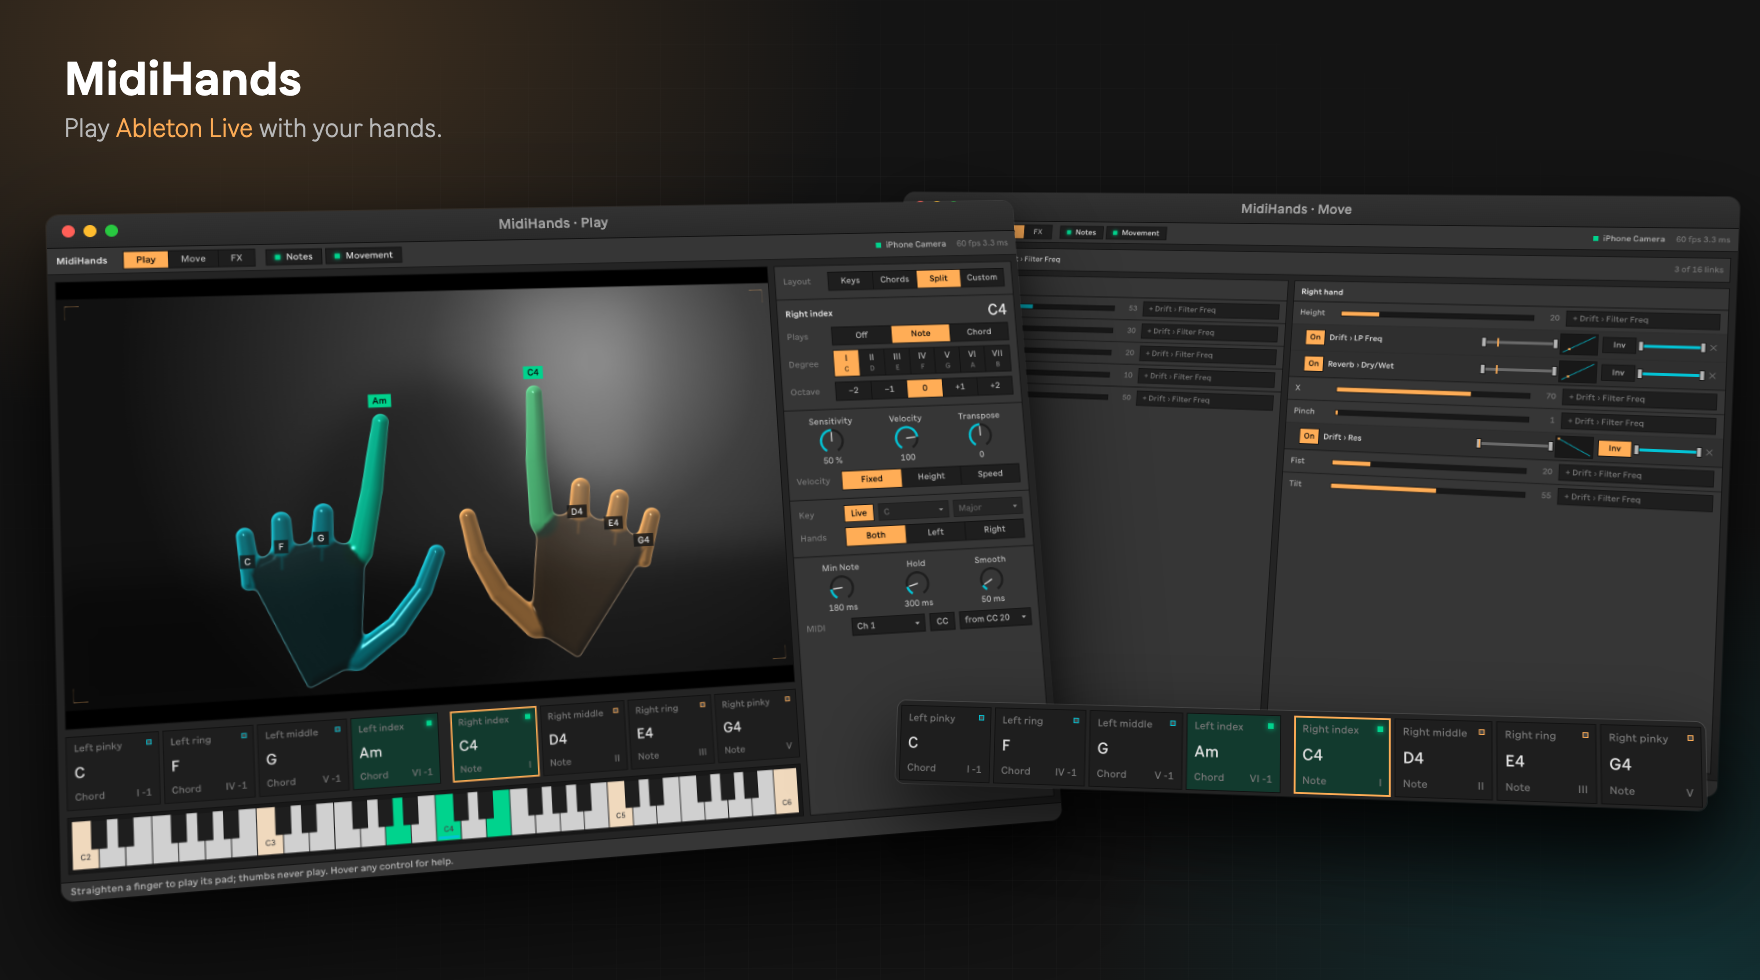
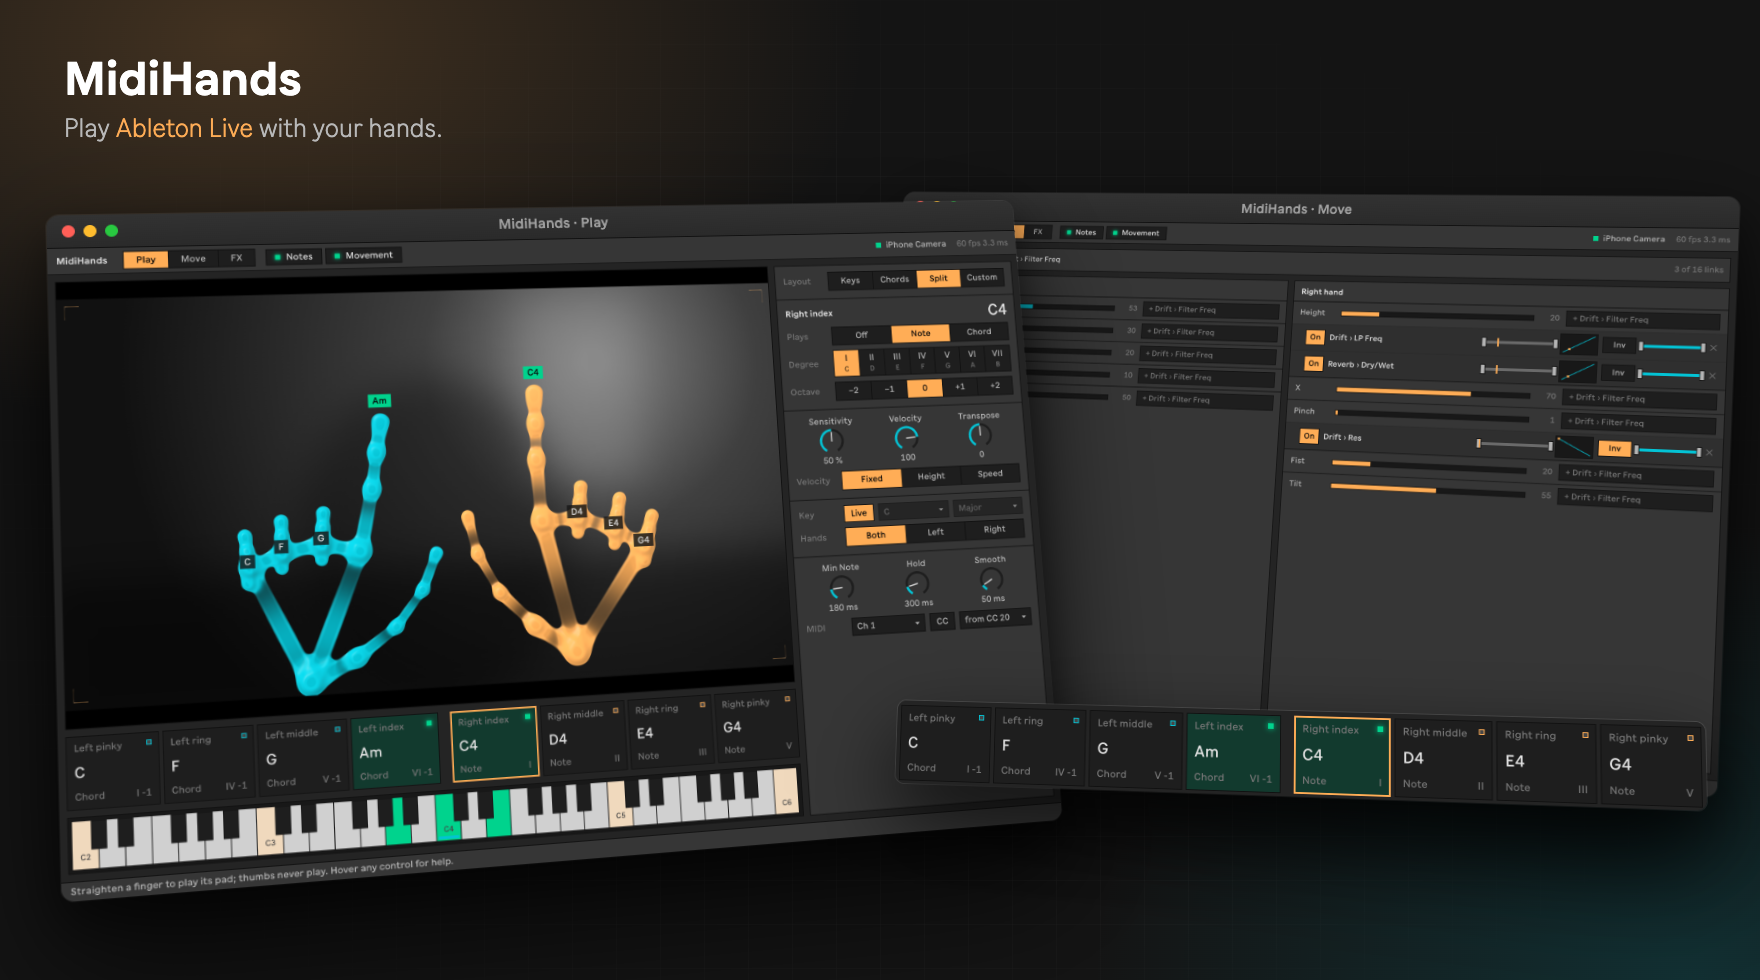
fix: back to the original jelly look, with slimmer fingers
The distance-field rewrite lost the old app's character (it read as a
latex glove on camera). The original field shader is back unchanged;
only the finger sizes differ: finger joints and tips at about 60-65%
of the old radius, finger bones a little fuller relative to their
joints so a slim finger stays smooth rather than beaded. Wrist, thumb
base and palm keep the old sizes; knuckles shrink slightly.

Claude-Session: https://claude.ai/code/session_01Lv8F25mHrKPNLjGZjr72Lo

Changed region(s): [[0.125, 0.398, 0.375, 0.7041]]

diff --git a/package/javascript/mh-gl.js b/package/javascript/mh-gl.js
@@ -90,9 +90,7 @@ uniform float u_mix;
 out vec4 o;
 void main() { o = vec4(mix(texture(u_base, v_uv).rgb, texture(u_fx, v_uv).rgb, u_mix), 1.0); }`;
 
-  // The hand body ("Jelly"): slim tapered fingers smoothly joined to a glassy palm,
-  // as a signed distance field. Sized from the hand itself (knuckle spacing), so it
-  // stays slimmer than the real fingers at any distance from the camera.
+  // The old app's hand body: a lit, slightly wobbling field over joints and bones.
   const FIELD_VERT = `#version 300 es
 precision highp float;
 in vec2 a_pos;
@@ -100,104 +98,91 @@ uniform vec4 u_rect;
 uniform vec2 u_res;
 uniform float u_yFlip;
 out vec2 v_px;
+out vec2 v_local;
 ${TO_CLIP}
 void main() {
   v_px = u_rect.xy + a_pos * u_rect.zw;
+  v_local = a_pos * 2.0 - 1.0;
   gl_Position = toClip(v_px, u_res);
 }`;
 
   const FIELD_FRAG = `#version 300 es
 precision highp float;
 #define JOINTS 21
+#define SEGS 21
 in vec2 v_px;
+in vec2 v_local;
 uniform vec2 u_joint[JOINTS];
 uniform float u_jointR[JOINTS];
-uniform float u_jointOn[JOINTS];
-uniform float u_palmR, u_k, u_R;
-uniform vec3 u_color, u_highlight, u_play;
-uniform float u_alpha, u_time, u_phase;
+uniform vec4 u_seg[SEGS];
+uniform float u_segR[SEGS];
+uniform vec3 u_color, u_highlight;
+uniform float u_alpha, u_time, u_rate, u_phase;
 out vec4 o;
-// Fingers, three bones each: the thumb from its base joint, the others from their knuckles.
-const int BA[15] = int[15](1, 2, 3, 5, 6, 7, 9, 10, 11, 13, 14, 15, 17, 18, 19);
-const int BB[15] = int[15](2, 3, 4, 6, 7, 8, 10, 11, 12, 14, 15, 16, 18, 19, 20);
-const int PALM[6] = int[6](0, 1, 5, 9, 13, 17);
-float cro(vec2 a, vec2 b) { return a.x * b.y - a.y * b.x; }
-// A capsule whose radius changes from ra to rb (Inigo Quilez).
-float taper(vec2 p, vec2 pa, vec2 pb, float ra, float rb) {
-  p -= pa; pb -= pa;
-  float h = dot(pb, pb);
-  if (h < 1.0) return length(p) - max(ra, rb);
-  vec2 q = vec2(dot(p, vec2(pb.y, -pb.x)), dot(p, pb)) / h;
-  q.x = abs(q.x);
-  float b = ra - rb;
-  vec2 c = vec2(sqrt(max(h - b * b, 1e-3)), b);
-  float k = cro(c, q), m = dot(c, q), n = dot(q, q);
-  if (k < 0.0) return sqrt(h * n) - ra;
-  if (k > c.x) return sqrt(h * (n + 1.0 - 2.0 * q.y)) - rb;
-  return m - ra;
+float capsule(vec2 p, vec2 a, vec2 b, float r) {
+  vec2 pa = p - a, ba = b - a;
+  float h = clamp(dot(pa, ba) / max(dot(ba, ba), 1e-4), 0.0, 1.0);
+  return length(pa - ba * h) - r;
 }
-float palm(vec2 p) {
-  vec2 v0 = u_joint[PALM[0]];
-  float d = dot(p - v0, p - v0), s = 1.0;
-  int j = 5;
-  for (int i = 0; i < 6; i++) {
-    vec2 vi = u_joint[PALM[i]], vj = u_joint[PALM[j]];
-    vec2 e = vj - vi, w = p - vi;
-    vec2 b = w - e * clamp(dot(w, e) / max(dot(e, e), 1e-3), 0.0, 1.0);
-    d = min(d, dot(b, b));
-    bvec3 c = bvec3(p.y >= vi.y, p.y < vj.y, e.x * w.y > e.y * w.x);
-    if (all(c) || all(not(c))) s = -s;
-    j = i;
-  }
-  return s * sqrt(d);
+float wob(vec2 d, int i) {
+  float a = atan(d.y, d.x);
+  return 1.0 + 0.06 * sin(a * 2.0 + u_time * (1.05 + u_rate * 0.95) + u_phase * 6.28318)
+             + 0.035 * sin(a * 3.0 - u_time * (0.62 + u_rate * 0.82) + float(i) * 0.37);
 }
-float smin(float a, float b, float k) { float h = max(k - abs(a - b), 0.0) / k; return min(a, b) - h * h * k * 0.25; }
-// x: distance (px, negative inside), y: how much a playing finger tints this point,
-// z: how much this point is palm rather than finger (the palm is only a faint membrane).
-// The segments of a finger join plainly (no bulging joints); only fingers and palm blend.
-vec3 scene(vec2 p) {
-  float dp = palm(p) - u_palmR * 0.25, d = dp, fingers = 1e9, on = 0.0;
-  for (int f = 0; f < 5; f++) {
-    float df = 1e9;
-    for (int k = 0; k < 3; k++) {
-      int i = f * 3 + k;
-      df = min(df, taper(p, u_joint[BA[i]], u_joint[BB[i]], u_jointR[BA[i]], u_jointR[BB[i]]));
-    }
-    on = max(on, u_jointOn[BB[f * 3 + 2]] * (1.0 - smoothstep(-2.0, u_k, df)));
-    fingers = min(fingers, df);
-    d = smin(d, df, u_k);
+float pulseAt(vec2 p, vec4 s) {
+  float t = clamp(length(p - s.xy) / max(length(s.zw - s.xy), 1e-4), 0.0, 1.0);
+  return 0.5 + 0.5 * sin((t - u_time * 0.18 * max(u_rate, 1e-3) - u_phase) * 6.28318);
+}
+float fieldAt(vec2 p) {
+  float total = 0.0;
+  for (int i = 0; i < JOINTS; i++) {
+    vec2 d = p - u_joint[i];
+    float dist = length(d) / max(u_jointR[i] * wob(d, i), 1e-3);
+    total += exp(-pow(dist, 2.35)) * 0.92;
   }
-  return vec3(d, on, smoothstep(-u_k * 0.5, u_k * 0.5, fingers - max(dp, -u_k)));
+  for (int i = 0; i < SEGS; i++) {
+    float dist = capsule(p, u_seg[i].xy, u_seg[i].zw, u_segR[i]) / max(u_segR[i], 1e-3);
+    total += exp(-pow(max(dist, 0.0), 2.4) * 1.05) * (1.08 + pulseAt(p, u_seg[i]) * 0.12);
+  }
+  return total;
 }
 void main() {
-  vec3 s = scene(v_px);
-  float body = clamp(0.5 - s.x, 0.0, 1.0);             // 1 px soft edge
-  if (body <= 0.0) discard;
-  float R = max(u_R, 2.0);                              // one thickness for the whole hand: no seams
-  float t = clamp(-s.x / R, 0.0, 1.0);                  // 0 at the rim, 1 deep inside
-  // A rounded profile: the normal tilts outwards towards the rim.
-  float e = max(1.0, R * 0.12);
-  vec2 g = vec2(scene(v_px + vec2(e, 0.0)).x - scene(v_px - vec2(e, 0.0)).x,
-                scene(v_px + vec2(0.0, e)).x - scene(v_px - vec2(0.0, e)).x) / (2.0 * e);
-  float u = 1.0 - t;
-  float slope = u / max(sqrt(1.0 - u * u), 0.12);
-  vec3 n = normalize(vec3(g * min(slope, 6.0), 1.0));
-  vec3 L = normalize(vec3(-0.45, -0.55, 0.7));
-  float diffuse = max(dot(n, L), 0.0);
-  float spec = pow(max(dot(reflect(-L, n), vec3(0.0, 0.0, 1.0)), 0.0), 36.0);
-  float fresnel = pow(1.0 - n.z, 2.0);
-  float sheen = 0.75 + 0.25 * sin(dot(v_px, vec2(0.018, 0.031)) - u_time * 1.3 + u_phase * 6.28318);
-  vec3 base = mix(u_color, u_play, s.y * 0.7);
-  vec3 c = base * (0.5 + 0.6 * diffuse) + u_highlight * (spec * 0.85 * sheen + fresnel * 0.3);
-  // Glass: fingers clear inside and solid at the rim, a playing finger fills up; the
-  // palm only a faint membrane with a thin bright edge, so the real palm shows.
-  float rim = 1.0 - smoothstep(0.0, 0.45, t);
-  float fingerA = mix(0.55, 1.0, max(rim, s.y * 0.7));
-  float edge = 1.0 - smoothstep(0.0, 1.5 + R * 0.12, -s.x);
-  float palmA = mix(0.12, 0.7, edge);
-  c = mix(c, mix(c, u_highlight, 0.35), s.z * edge);
-  float a = u_alpha * body * mix(fingerA, palmA, s.z);
-  a = clamp(a + spec * 0.3 * (1.0 - s.z * 0.7), 0.0, 1.0);
+  float field = 0.0, membraneField = 0.0, charge = 0.0, centerWeight = 0.0;
+  for (int i = 0; i < JOINTS; i++) {
+    vec2 d = v_px - u_joint[i];
+    float dist = length(d) / max(u_jointR[i] * wob(d, i), 1e-3);
+    float blob = exp(-pow(dist, 2.35));
+    field += blob * 0.92;
+    membraneField += exp(-pow(dist - 0.98, 2.0) * 8.5);
+    charge += blob * (0.35 + 0.65 * sin(u_time * (1.8 + u_rate * 1.2) + u_phase * 6.28318 + float(i) * 0.31));
+    centerWeight += blob;
+  }
+  for (int i = 0; i < SEGS; i++) {
+    float dist = capsule(v_px, u_seg[i].xy, u_seg[i].zw, u_segR[i]) / max(u_segR[i], 1e-3);
+    float bridge = exp(-pow(max(dist, 0.0), 2.4) * 1.05);
+    float pulse = pulseAt(v_px, u_seg[i]);
+    field += bridge * (1.08 + pulse * 0.12);
+    membraneField += exp(-pow(dist - 0.12, 2.0) * 6.8) * 0.82;
+    charge += bridge * pulse * 0.3;
+  }
+  float body = smoothstep(0.98, 1.24, field);
+  if (body < 0.001) discard;
+  float core = smoothstep(1.26, 1.82, field);
+  float membrane = smoothstep(0.18, 0.96, membraneField) * (1.0 - core * 0.44);
+  float flow = 0.5 + 0.5 * sin(length(v_local) * 9.0 - u_time * (1.5 + u_rate * 0.8) + u_phase * 6.28318 + centerWeight * 0.45);
+  float electric = clamp(charge / 18.0, 0.0, 1.0);
+  float e = 2.2;
+  float fx = fieldAt(v_px + vec2(e, 0.0)) - fieldAt(v_px - vec2(e, 0.0));
+  float fy = fieldAt(v_px + vec2(0.0, e)) - fieldAt(v_px - vec2(0.0, e));
+  vec3 n = normalize(vec3(-fx, -fy, 0.95));
+  vec3 l = normalize(vec3(-0.38, -0.46, 0.8));
+  float diffuse = max(dot(n, l), 0.0);
+  float rim = pow(1.0 - max(n.z, 0.0), 2.4);
+  float spec = pow(max(dot(reflect(-l, n), vec3(0.0, 0.0, 1.0)), 0.0), 18.0);
+  float gloss = spec * (0.18 + flow * 0.12 + electric * 0.08);
+  vec3 c = u_color * (0.82 + diffuse * 0.34 + core * 0.08);
+  c = mix(c, u_highlight, gloss + rim * 0.14 + membrane * 0.05);
+  float a = u_alpha * body * (1.0 + membrane * 0.12 + gloss * 0.08);
   o = vec4(c * a, a);
 }`;
 
@@ -422,36 +407,42 @@ void main() {
         const pts = hand.pts.map(map);
         const color = hex(s ? theme.right : theme.left), hi = hex(theme.highlight);
         const fv = (i) => { const f = i <= 4 ? 0 : Math.floor((i - 1) / 4); return f > 0 && hand.on[f] ? 1 : 0; };
-        const phase = s ? 0.58 : 0.12;  // the two hands shimmer out of step
+        // Size follows how big the hand is on screen (old app: palm 45..220 px -> 0.3..1.9).
+        const palm = [5, 9, 13, 17].reduce((a, i) => a + Math.hypot(pts[i][0] - pts[0][0], pts[i][1] - pts[0][1]), 0) / 4 / unit;
+        const n = clamp01((0.3 + (palm - 45) / 175 * 1.6 - 0.3) / 1.6);
+        const scale = (0.18 + n * 1.1) * 2.2 * unit;
+        const motion = s ? [1.08, 0.58] : [0.84, 0.12];
         if (look === "jelly") {
-          // Thickness from the hand itself: the spacing of the four knuckles.
-          const dist = (i, j) => Math.hypot(pts[i][0] - pts[j][0], pts[i][1] - pts[j][1]);
-          const sp = Math.max((dist(5, 9) + dist(9, 13) + dist(13, 17)) / 3, dist(0, 9) * 0.22, 3);
-          const joints = new Float32Array(42), radii = new Float32Array(21), on = new Float32Array(21);
-          // Wrist, thumb (CMC, MCP, IP, tip), then per finger: knuckle, middle joints, tip.
-          const thumb = [0.3, 0.34, 0.3, 0.26, 0.22], finger = [0.3, 0.26, 0.23, 0.2];
+          const joints = new Float32Array(42), radii = new Float32Array(21), segs = new Float32Array(84), segR = new Float32Array(21);
           let x0 = Infinity, y0 = Infinity, x1 = -Infinity, y1 = -Infinity;
           for (let i = 0; i < 21; i++) {
-            const f = i <= 4 ? 0 : Math.floor((i - 1) / 4);
-            let rad = (i <= 4 ? thumb[i] : finger[(i - 1) % 4]) * sp;
-            if (f === 4) rad *= 0.88;                                  // pinky
-            on[i] = fv(i);
-            if (on[i]) rad *= 1.1;
+            const v = fv(i);
+            // The old app's sizes, with fingers at about 60%: wrist, thumb base and palm keep
+            // the old look, knuckles shrink a little so the fingers blend into the palm.
+            const rad = (i === 0 ? 9.4 : i === 1 ? 5.9 : [5, 9, 13, 17].includes(i) ? 6.6
+              : TIPS.includes(i) ? 4.6 + v * 2.2 : 3.8 + v * 1.4) * scale;
             joints[i * 2] = pts[i][0]; joints[i * 2 + 1] = pts[i][1]; radii[i] = rad;
             x0 = Math.min(x0, pts[i][0] - rad); y0 = Math.min(y0, pts[i][1] - rad);
             x1 = Math.max(x1, pts[i][0] + rad); y1 = Math.max(y1, pts[i][1] + rad);
           }
-          const pad = 0.3 * sp + 3;
+          BONES.forEach(([a, b], i) => {
+            const len = Math.hypot(pts[b][0] - pts[a][0], pts[b][1] - pts[a][1]);
+            const merge = 0.34 + clamp01(len / Math.max(24 * scale, 1)) * 0.9;
+            segs.set([pts[a][0], pts[a][1], pts[b][0], pts[b][1]], i * 4);
+            const finger = ![0, 1, 5, 9, 13, 17].includes(b);  // finger bones a little fuller: smooth, not beaded
+            segR[i] = (radii[a] + radii[b]) * 0.5 * (finger ? 0.48 : 0.42) * (1 + (merge - 1) * 0.36);
+          });
+          const pad = 18 * unit * (0.8 + n * 1.08);
           const prog = progs.field;
           gl.useProgram(prog.p);
           gl.uniform4f(prog.u.u_rect, x0 - pad, y0 - pad, x1 - x0 + pad * 2, y1 - y0 + pad * 2);
           gl.uniform2f(prog.u.u_res, w, h);
           gl.uniform1f(prog.u.u_yFlip, dst ? -1 : 1);
-          gl.uniform2fv(prog.u.u_joint, joints); gl.uniform1fv(prog.u.u_jointR, radii); gl.uniform1fv(prog.u.u_jointOn, on);
-          gl.uniform1f(prog.u.u_palmR, 0.5 * sp); gl.uniform1f(prog.u.u_k, 0.22 * sp); gl.uniform1f(prog.u.u_R, 0.3 * sp);
-          gl.uniform3fv(prog.u.u_color, color); gl.uniform3fv(prog.u.u_highlight, hi); gl.uniform3fv(prog.u.u_play, hex(theme.play));
-          gl.uniform1f(prog.u.u_alpha, 0.92); gl.uniform1f(prog.u.u_time, time);
-          gl.uniform1f(prog.u.u_phase, phase);
+          gl.uniform2fv(prog.u.u_joint, joints); gl.uniform1fv(prog.u.u_jointR, radii);
+          gl.uniform4fv(prog.u.u_seg, segs); gl.uniform1fv(prog.u.u_segR, segR);
+          gl.uniform3fv(prog.u.u_color, color); gl.uniform3fv(prog.u.u_highlight, hi);
+          gl.uniform1f(prog.u.u_alpha, 0.86); gl.uniform1f(prog.u.u_time, time);
+          gl.uniform1f(prog.u.u_rate, motion[0]); gl.uniform1f(prog.u.u_phase, motion[1]);
           gl.bindVertexArray(quad); gl.drawArrays(gl.TRIANGLES, 0, 6);
         } else {
           for (const [a, b] of BONES) {
